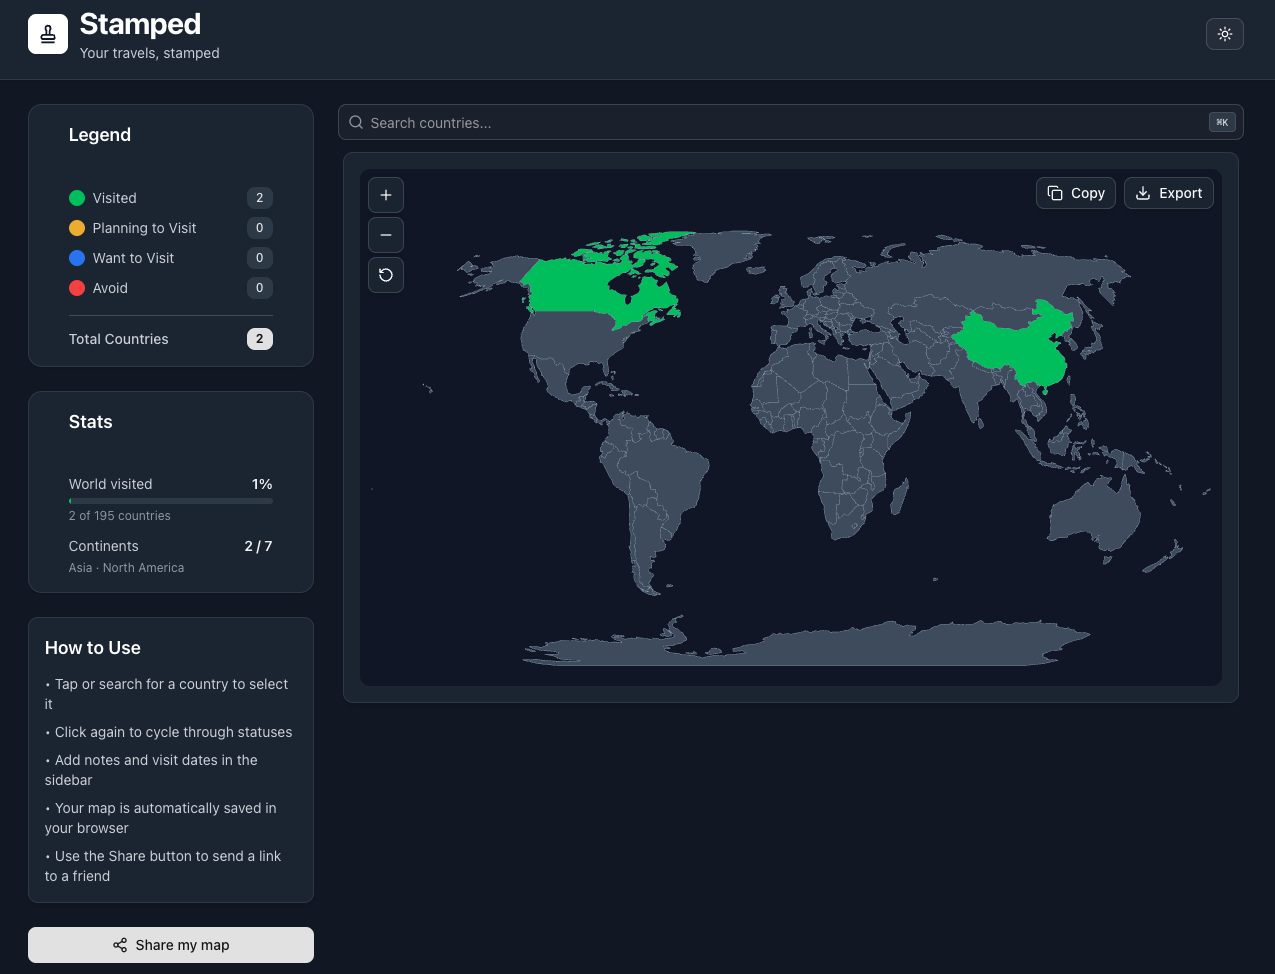
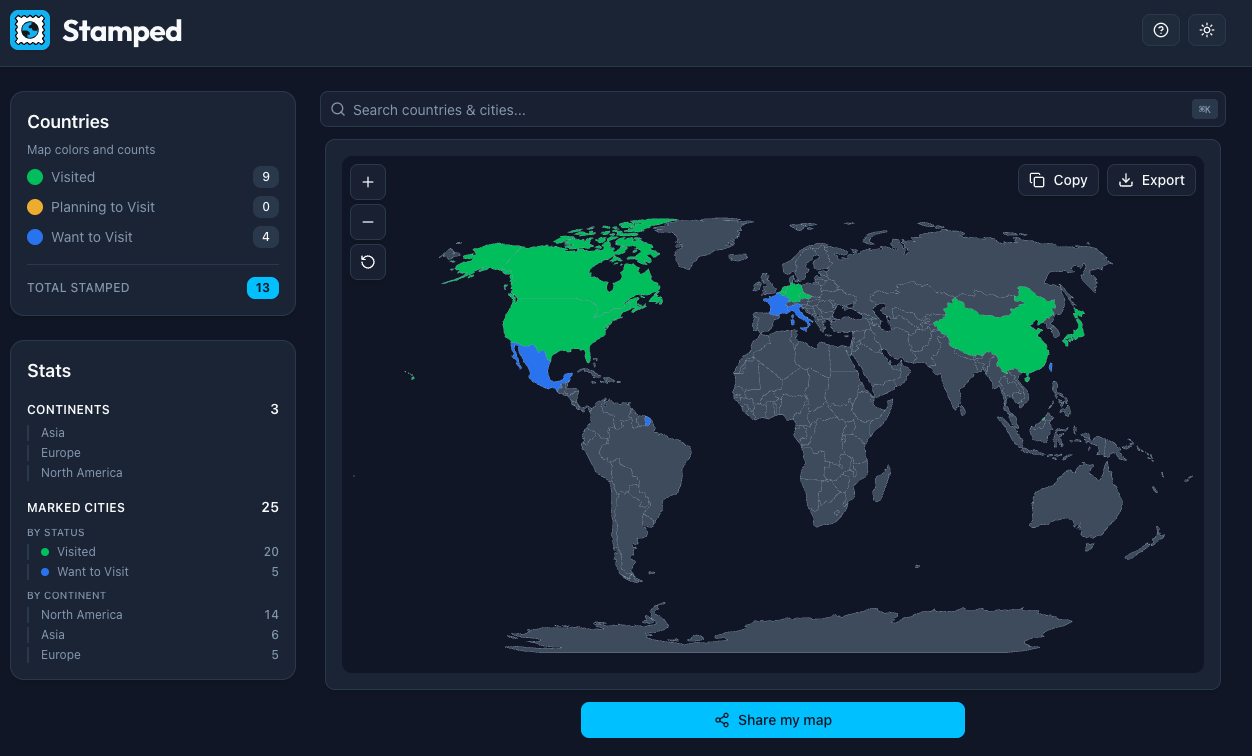
fix: project section content and formatting

diff --git a/app/components/sections/Projects.tsx b/app/components/sections/Projects.tsx
@@ -9,7 +9,20 @@ import { ExternalLink } from "lucide-react";
 import Image from "next/image";
 import { FaGithub } from "react-icons/fa";
 
-const projects = [
+type ProjectImageFit = "cover" | "contain";
+
+interface Project {
+  title: string;
+  description: string;
+  technologies: string[];
+  github?: string;
+  live?: string;
+  image: string;
+  /** Use "contain" for portrait/mobile screenshots so they aren't cropped. */
+  imageFit?: ProjectImageFit;
+}
+
+const projects: Project[] = [
   {
     title: "Stamped",
     description:
@@ -18,9 +31,9 @@ const projects = [
       "Next.js",
       "React",
       "TypeScript",
+      "Redis",
       "Tailwind CSS",
       "D3.js",
-      "Vercel Analytics",
     ],
     github: "https://github.com/meleongg/personal-world-map",
     live: "https://stamped-travel.vercel.app",
@@ -59,13 +72,14 @@ const projects = [
     image: "/images/flashlearn.png",
   },
   {
-    title: "Fitflow",
+    title: "Embur",
     description:
       "Full-stack fitness tracker with workout logging, progress visualization, and performance analytics.",
     technologies: ["Next.js", "Supabase", "Tailwind CSS", "TypeScript"],
-    github: "https://github.com/fitflow",
-    live: "https://fitflow-pi.vercel.app/",
-    image: "/images/fitflow.png",
+    github: "https://github.com/Embur",
+    live: "https://embur.vercel.app/",
+    image: "/images/embur.png",
+    imageFit: "contain",
   },
   {
     title: "Holistic Health Tracker",
@@ -89,7 +103,7 @@ const projects = [
     title: "HackerHare",
     description:
       "Chrome extension that intentionally slows form filling to promote mindful data entry habits.",
-    technologies: ["Chrome Manifest V3", "HTML", "CSS"],
+    technologies: ["Chrome Manifest V3", "HTML", "CSS", "JS"],
     github: "https://github.com/DonaldKLee/Stormhacks-2024",
     live: "https://stormhacks-2024-site.vercel.app/",
     image: "/images/hackerhare.png",
@@ -102,15 +116,6 @@ const projects = [
     github: "https://github.com/expawdition",
     live: undefined,
     image: "/images/expawdition.jpg",
-  },
-  {
-    title: "liftz",
-    description:
-      "Comprehensive workout tracker with exercise library, history calendar, and plate calculator.",
-    technologies: ["React", "Express", "MongoDB", "Node.js", "Next.js"],
-    github: undefined,
-    live: "https://liftz-workout-tracker.vercel.app/",
-    image: "/images/liftz.png",
   },
   {
     title: "phreview",
@@ -138,14 +143,26 @@ export function Projects() {
               viewport={VIEWPORT_ONCE}
               className="card-surface group flex h-full flex-col overflow-hidden transition-all duration-300 hover:-translate-y-1 hover:shadow-xl"
             >
-              <div className="relative aspect-[16/10] overflow-hidden bg-gradient-to-br from-blue-100/70 to-indigo-100/60 dark:from-blue-900/30 dark:to-indigo-900/20">
-                <Image
-                  src={project.image}
-                  alt={project.title}
-                  fill
-                  sizes="(max-width: 768px) 100vw, 50vw"
-                  className="object-cover object-top transition-transform duration-500 group-hover:scale-105"
-                />
+              <div className="relative aspect-[16/10] overflow-hidden bg-gradient-to-br from-blue-100/70 to-indigo-100/60 p-3 sm:p-4 dark:from-blue-900/30 dark:to-indigo-900/20">
+                <div
+                  className={`relative h-full w-full overflow-hidden rounded-lg ${
+                    project.imageFit === "contain"
+                      ? "bg-slate-950 ring-1 ring-slate-800/80"
+                      : ""
+                  }`}
+                >
+                  <Image
+                    src={project.image}
+                    alt={project.title}
+                    fill
+                    sizes="(max-width: 768px) 100vw, 50vw"
+                    className={
+                      project.imageFit === "contain"
+                        ? "object-contain object-center transition-transform duration-500 group-hover:scale-[1.03]"
+                        : "object-cover object-top transition-transform duration-500 group-hover:scale-[1.03]"
+                    }
+                  />
+                </div>
               </div>
               <div className="flex flex-1 flex-col p-5 sm:p-6">
                 <h3 className="mb-2 text-xl font-bold text-gray-800 dark:text-white">
